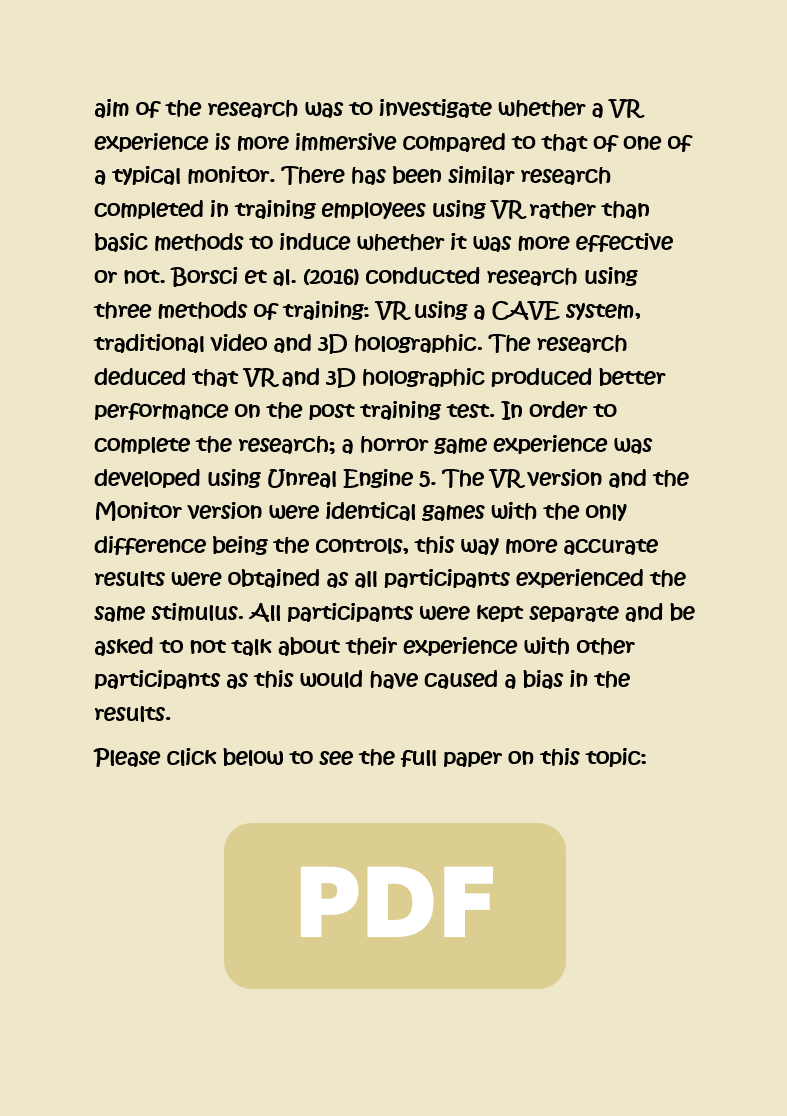
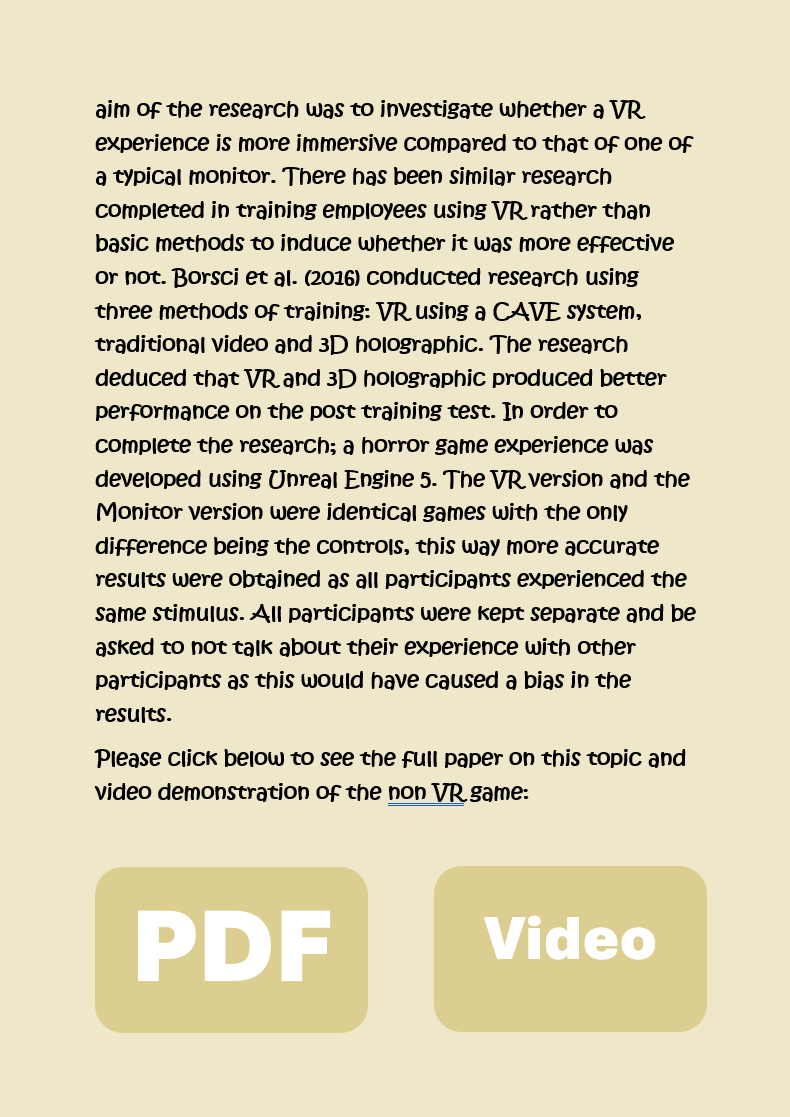
added video link
added

Changed region(s): [[0.122, 0.0914, 0.9149, 0.9444]]

diff --git a/car.js b/car.js
@@ -2,7 +2,7 @@ var myCar;
 var myBullets = [];
 var myTargets = [];
 var myPuddles = [];
-var targetAmount = 15  ;
+var targetAmount = 1  ;
 var puddleAmount = Math.floor((Math.random() * 10) + 2);
 var reloadTime = 60;
 var reloadTimer = 0;
@@ -30,6 +30,8 @@ var journalPageUnreal = new Image();
 journalPageUnreal.src = "JournalPage_Unreal.png";
 var journalPageJavascript = new Image();
 journalPageJavascript.src = "JournalPage_Javascript.png";
+var journalPageTargets = new Image();
+journalPageTargets.src = "JournalPage_Targets.png";
 var journalPagePPT = new Image();
 journalPagePPT.src = "JournalPage_PPT.png";
 var leftArrowSprite = new Image();
@@ -43,7 +45,8 @@ var gunCol = 0;
 var tick = 0;
 var canMove = true;
 var showBook = false;
-var page = 2;
+var page = 0;
+var canRead = false;
 //var rect = document.getElementById("canvas");
 
 
@@ -102,7 +105,7 @@ var myGameArea = {
                     console.log("click2");
                     canMove = true;
                     showBook = false;
-                    page = 0;
+                    
                 }
             }
 
@@ -126,13 +129,23 @@ var myGameArea = {
                if(myGameArea.mouseY > myGameArea.canvas.height*0.655 && myGameArea.mouseY < myGameArea.canvas.height*0.730){
                     if(page == 0){
                         console.log("Github");
+                        window.open("https://github.com/HarryLedgerton3110/HarryLedgerton3110.github.io");
                     }
                }
             }
-            if(myGameArea.mouseX > myGameArea.canvas.width*0.658 && myGameArea.mouseX < myGameArea.canvas.width*0.744){
+            if(myGameArea.mouseX > myGameArea.canvas.width*0.625 && myGameArea.mouseX < myGameArea.canvas.width*0.693){
                if(myGameArea.mouseY > myGameArea.canvas.height*0.66 && myGameArea.mouseY < myGameArea.canvas.height*0.733){
                     if(page == 1){
                         console.log("PDF");
+                        window.open("HarrisonLedgertonDissertation.pdf");
+                    }
+               }
+            }
+
+            if(myGameArea.mouseX > myGameArea.canvas.width*0.711 && myGameArea.mouseX < myGameArea.canvas.width*0.781){
+               if(myGameArea.mouseY > myGameArea.canvas.height*0.66 && myGameArea.mouseY < myGameArea.canvas.height*0.733){
+                    if(page == 1){
+                        window.open("https://www.youtube.com/watch?v=VRUABQEV_a0&t=9s");
                     }
                }
             }
@@ -343,13 +356,17 @@ function updateGameArea(){
 
     for(let i = 0; i < myBullets.length; i++){
         for(let j =0; j<myTargets.length; j++){
-            if(getDist(myBullets[i].x, myBullets[i].y, myTargets[j].x,myTargets[j].y) < myTargets[j].width/2){
+            if(getDist(myBullets[i].x, myBullets[i].y, myTargets[j].x,myTargets[j].y) < myTargets[j].width){
                 myBullets.splice(i,1);
                 myTargets.splice(j,1);
             };
         }
     }
 
+    if(myTargets.length == 0){
+        canRead = true;
+    }
+  
 
     if (canMove == true){
         myCar.move();
@@ -366,23 +383,27 @@ function updateGameArea(){
         ctx.drawImage(openBookSprite, 0, 0, 512,512, myGameArea.canvas.width / 5 ,0 ,myGameArea.canvas.width/1.5, (myGameArea.canvas.width/1.5));
         ctx.drawImage(leftArrowSprite,0,0,32,32,myGameArea.canvas.width / 6,myGameArea.canvas.height/2,64,64 );
         ctx.drawImage(rightArrowSprite,0,0,32,32,myGameArea.canvas.width / 6 + myGameArea.canvas.width/1.425,myGameArea.canvas.height/2,64,64 );
-        if(page == 0){
+        if(page == 0 && canRead == true){
             ctx.drawImage(journalPageTitle, 0, 0, 787,1117, (myGameArea.canvas.width / 5) + (myGameArea.canvas.width*0.063) ,myGameArea.canvas.height - (myGameArea.canvas.height * 0.709),myGameArea.canvas.width/4.968, (myGameArea.canvas.width/3.5));
             ctx.drawImage(journalPageJavascript, 0, 0, 787,1117, (myGameArea.canvas.width / 5) + (myGameArea.canvas.width*0.4) ,myGameArea.canvas.height - (myGameArea.canvas.height * 0.709),myGameArea.canvas.width/4.968, (myGameArea.canvas.width/3.5));
         }
-        if(page == 1){
+        if(page == 1 && canRead == true){
             ctx.drawImage(journalPageDiss1, 0, 0, 787,1117, (myGameArea.canvas.width / 5) + (myGameArea.canvas.width*0.063) ,myGameArea.canvas.height - (myGameArea.canvas.height * 0.709),myGameArea.canvas.width/4.968, (myGameArea.canvas.width/3.5));
             ctx.drawImage(journalPageDiss2, 0, 0, 787,1117, (myGameArea.canvas.width / 5) + (myGameArea.canvas.width*0.4) ,myGameArea.canvas.height - (myGameArea.canvas.height * 0.709),myGameArea.canvas.width/4.968, (myGameArea.canvas.width/3.5));
         }
-        if(page == 2){
+        if(page == 2 && canRead == true){
             ctx.drawImage(journalPageUnreal, 0, 0, 787,1117, (myGameArea.canvas.width / 5) + (myGameArea.canvas.width*0.063) ,myGameArea.canvas.height - (myGameArea.canvas.height * 0.709),myGameArea.canvas.width/4.968, (myGameArea.canvas.width/3.5));
             ctx.drawImage(journalPagePPT, 0, 0, 787,1117, (myGameArea.canvas.width / 5) + (myGameArea.canvas.width*0.4) ,myGameArea.canvas.height - (myGameArea.canvas.height * 0.709),myGameArea.canvas.width/4.968, (myGameArea.canvas.width/3.5));
+        }
+        if(canRead == false){
+            ctx.drawImage(journalPageTargets, 0, 0, 787,1117, (myGameArea.canvas.width / 5) + (myGameArea.canvas.width*0.063) ,myGameArea.canvas.height - (myGameArea.canvas.height * 0.709),myGameArea.canvas.width/4.968, (myGameArea.canvas.width/3.5));
+            ctx.drawImage(journalPageTargets, 0, 0, 787,1117, (myGameArea.canvas.width / 5) + (myGameArea.canvas.width*0.4) ,myGameArea.canvas.height - (myGameArea.canvas.height * 0.709),myGameArea.canvas.width/4.968, (myGameArea.canvas.width/3.5));
         }
 
     }
 
     ctx.drawImage(bookSprite, 0, 0, 32,32,myGameArea.canvas.width/50 ,myGameArea.canvas.height - (myGameArea.canvas.height/15),64, 64)
-
+    //console.log(myTargets.length);
     
 
 }

diff --git a/car.html b/car.html
@@ -13,8 +13,8 @@
             justify-content: center;
             align-items: center;
         }
-        canvas{
-            background-color: #6F421B;
+        canvas{ 
+            background-color: green;
             box-shadow: black 20px 10px 50px;
         }
     </style>
